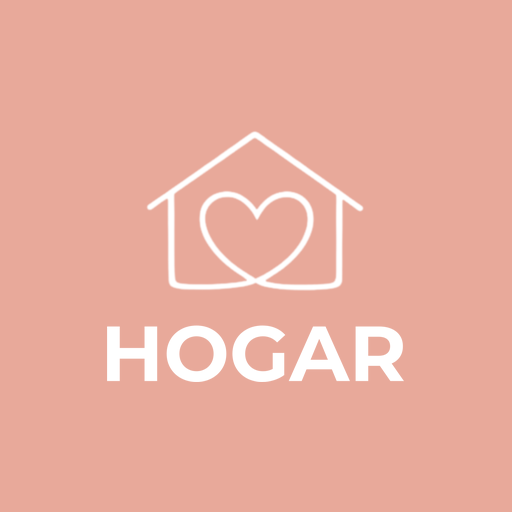
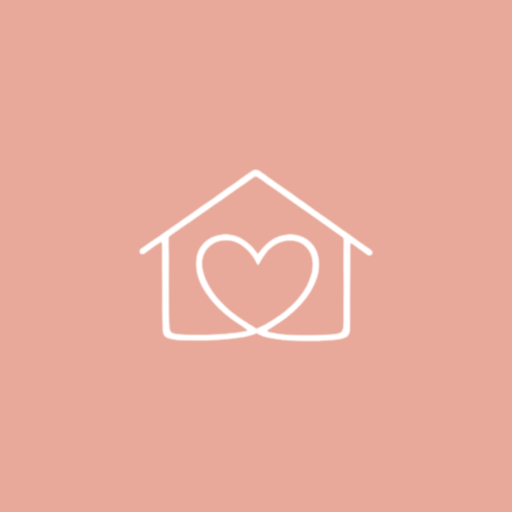
fix(icono): solo la casa con el corazón, sin la palabra HOGAR
La primera versión llevaba el logo entero y quedó mal: a 60 px la palabra obliga
a encoger la casa hasta que no se distingue. Ahora va solo la marca, más grande.

El recorte sale de la banda de tinta del original, no de un número a ojo: la
casa ocupa las filas 319–1315 y la palabra empieza en la 1531, con un hueco
limpio en medio.

Las URLs pasan a ?v=2. Sin eso, quien ya tuviera la app añadida a su pantalla
de inicio seguiría viendo el icono viejo: iOS se queda con el que cacheó.

El theme_color del manifest se pone al día con el del index (#FBF4EE), que
cambió al poner la barra de cristal arriba en las pantallas de usuaria.

Changed region(s): [[0.1875, 0.25, 0.8125, 0.75]]

diff --git a/index.html b/index.html
@@ -37,12 +37,18 @@
      permitirse— porque son 180 px y no 16.
 
      Los cuatro PNG salen del logo original del bucket (LOGOHOGAR_qasyyc.png,
-     2215 px, tinta gris sobre transparente): se recorta a su dibujo, se recolorea a
-     blanco usando su propio canal alfa y se monta sobre #E8A99A (--salmon-rosa).
-     No es un redibujo: es el archivo bueno. La marca ocupa el 76% del ancho, más
-     que en la imagen de referencia, porque a 60 px un logo al 50% no se lee.
+     2215 px, tinta gris sobre transparente): se recorta, se recolorea a blanco
+     usando su propio canal alfa y se monta sobre #E8A99A (--salmon-rosa). No es un
+     redibujo: es el archivo bueno.
+     VA SOLO LA CASA CON EL CORAZÓN, SIN LA PALABRA "HOGAR". La primera versión la
+     llevaba y quedó mal: a 60 px la palabra obliga a encoger la casa hasta que no se
+     distingue. El recorte se hace por la banda de tinta —la marca ocupa las filas
+     319–1315 del original y la palabra empieza en la 1531, con un hueco limpio en
+     medio—, no por un número a ojo.
+     El ?v=2 del href es contra la caché: iOS se queda con el icono que ya guardó, y
+     sin cambiar la URL quien lo tuviera añadido seguiría viendo el de la palabra.
      =========================================================================== -->
-<link rel="apple-touch-icon" href="/apple-touch-icon.png">
+<link rel="apple-touch-icon" href="/apple-touch-icon.png?v=2">
 <meta name="apple-mobile-web-app-title" content="HOGAR">
 
 <!-- El manifest está por los ICONOS de Android y del escritorio, que no leen
